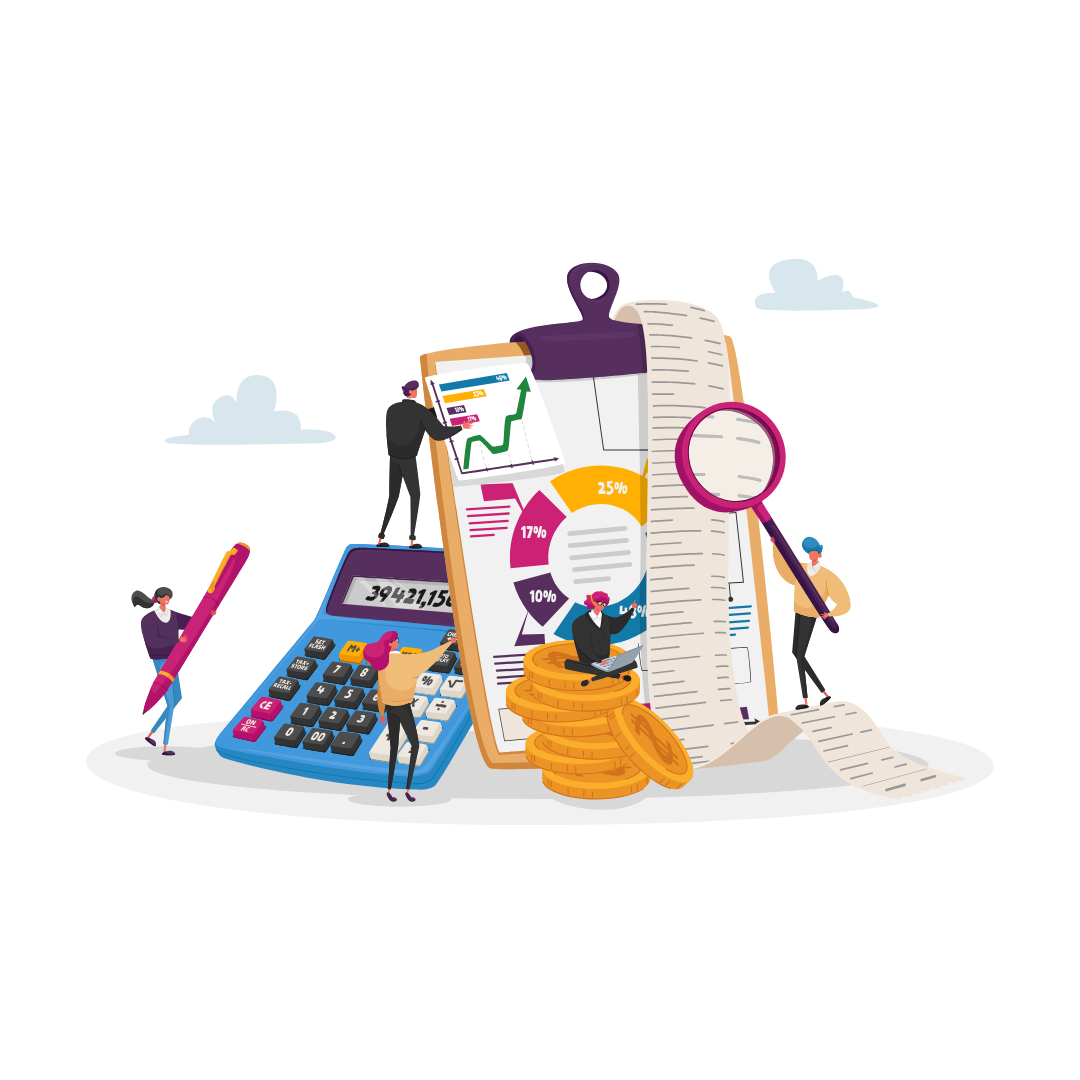
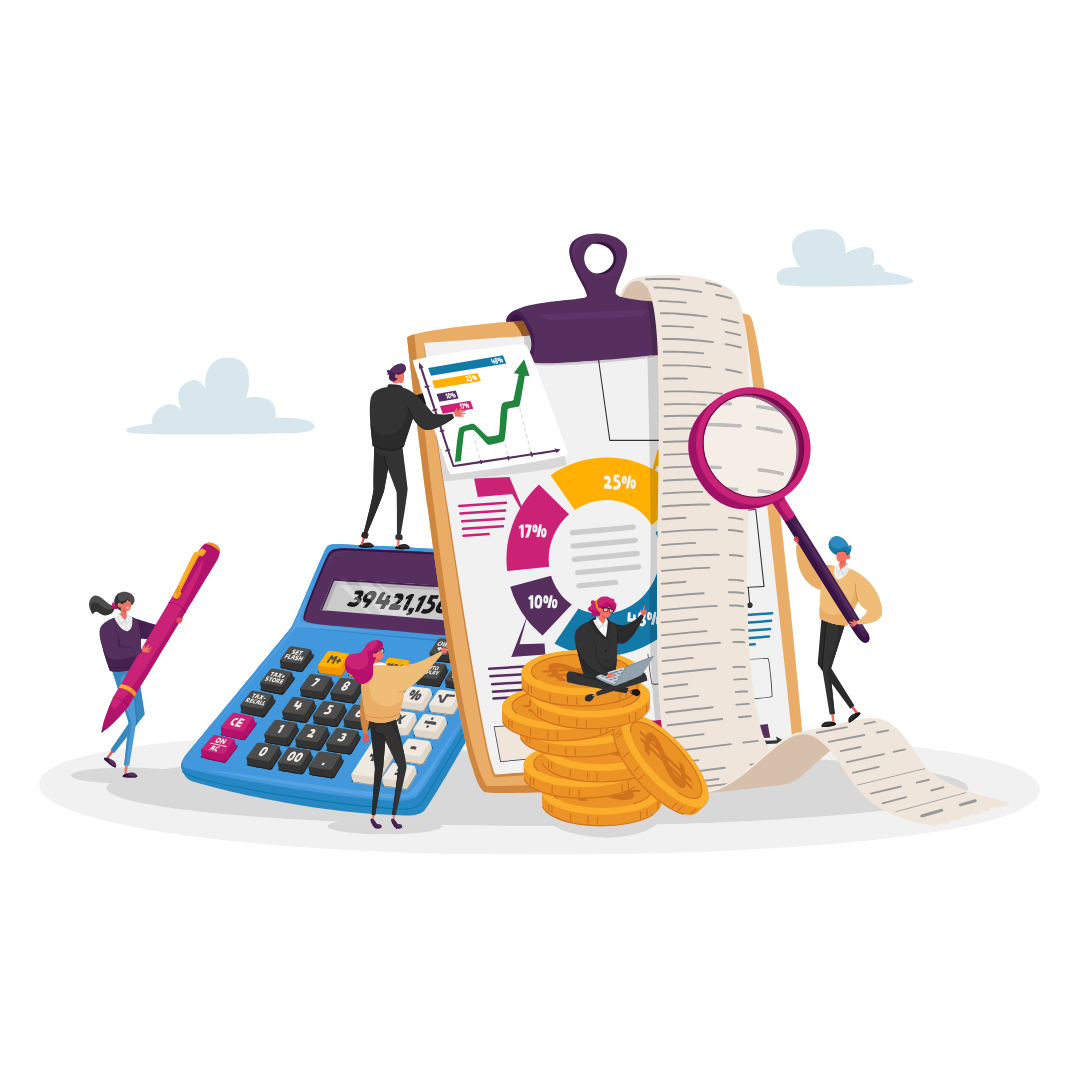
Merapikan landing page

Changed region(s): [[0.0611, 0.2139, 0.9472, 0.7944], [0.1222, 0.3361, 0.3056, 0.4278]]

diff --git a/assets/css/app.css b/assets/css/app.css
@@ -214,9 +214,10 @@ main .content .content-image {
 }
 
 main .content .content-image img {
-    width: 500px;
+    width: 680px;
     min-width: 150px;
     margin: auto;
+    margin-right: -150px;
     opacity: 0;
     animation: fadeIn 2s forwards;
 }
@@ -240,7 +241,7 @@ main .content2 .content-description .title {
   
 main .content2 .content-description p {
     padding-bottom: 20px;
-    width: 960px;
+    width: 1020px;
     margin: auto;
     font-size: 1.2rem;
     line-height: 1.7rem;
@@ -661,8 +662,13 @@ footer .content-wrapper .sosial-media small{
     }
 
     main .content .content-image {
-        width: 100%;
+        width: auto;
         order: -1;
+    }
+    
+    main .content .content-image img{
+        width: 400px;
+        margin-right: 0;
     }
 
     /* content 2 */
@@ -671,7 +677,7 @@ footer .content-wrapper .sosial-media small{
     }
 
     main .content2 .content-description p {
-        width: auto;
+        width: 100%;
         font-size: 1rem;
     }
 

diff --git a/index.php b/index.php
@@ -123,24 +123,38 @@
             <img src="assets/img/whatsapp-logo.png" alt="whatsapp" class="whatsapp-icon">
             <div class="whatsapp-dropdown">
               <a href="https://wa.me/628123456789" class="whatsapp-contact" target="_blank">
-                <img src="assets/img/avatar1.jpg" alt="Customer Service 1">
+                <img src="assets/img/admin-icon.png" alt="Admin Depok">
                 <div class="contact-info">
-                  <span class="contact-name">Lisa Amanda</span>
-                  <span class="contact-title">Customer Service</span>
+                  <span class="contact-name">Amanda</span>
+                  <span class="contact-title">Admin 1 Depok</span>
                 </div>
               </a>
               <a href="https://wa.me/628234567890" class="whatsapp-contact" target="_blank">
-                <img src="assets/img/avatar2.jpg" alt="Customer Service 2">
+                <img src="assets/img/admin-icon.png" alt="Admin Depok">
                 <div class="contact-info">
-                  <span class="contact-name">Budi Santoso</span>
-                  <span class="contact-title">Sales Support</span>
+                  <span class="contact-name">Princecylla</span>
+                  <span class="contact-title">Admin 2 Depok</span>
                 </div>
               </a>
               <a href="https://wa.me/628345678901" class="whatsapp-contact" target="_blank">
-                <img src="assets/img/avatar3.jpg" alt="Technical Support">
+                <img src="assets/img/admin-icon.png" alt="Admin Karawaci">
                 <div class="contact-info">
-                  <span class="contact-name">Ahmad Rizki</span>
-                  <span class="contact-title">Technical Support</span>
+                  <span class="contact-name">Selzha</span>
+                  <span class="contact-title">Admin Karawaci</span>
+                </div>
+              </a>
+              <a href="https://wa.me/628345678901" class="whatsapp-contact" target="_blank">
+                <img src="assets/img/admin-icon.png" alt="Admin Karawaci">
+                <div class="contact-info">
+                  <span class="contact-name">Firda</span>
+                  <span class="contact-title">Admin 1 Kalimalang</span>
+                </div>
+              </a>
+              <a href="https://wa.me/628345678901" class="whatsapp-contact" target="_blank">
+                <img src="assets/img/admin-icon.png" alt="Admin Karawaci">
+                <div class="contact-info">
+                  <span class="contact-name">Syifa</span>
+                  <span class="contact-title">Admin 2 Kalimalang</span>
                 </div>
               </a>
             </div>

diff --git a/modul.php b/modul.php
@@ -92,6 +92,48 @@
             </div>
         </main>
 
+        <!-- floating whatsapp button -->
+        <div class="whatsapp-button">
+            <img src="assets/img/whatsapp-logo.png" alt="whatsapp" class="whatsapp-icon">
+            <div class="whatsapp-dropdown">
+              <a href="https://wa.me/628123456789" class="whatsapp-contact" target="_blank">
+                <img src="assets/img/admin-icon.png" alt="Admin Depok">
+                <div class="contact-info">
+                  <span class="contact-name">Amanda</span>
+                  <span class="contact-title">Admin 1 Depok</span>
+                </div>
+              </a>
+              <a href="https://wa.me/628234567890" class="whatsapp-contact" target="_blank">
+                <img src="assets/img/admin-icon.png" alt="Admin Depok">
+                <div class="contact-info">
+                  <span class="contact-name">Princecylla</span>
+                  <span class="contact-title">Admin 2 Depok</span>
+                </div>
+              </a>
+              <a href="https://wa.me/628345678901" class="whatsapp-contact" target="_blank">
+                <img src="assets/img/admin-icon.png" alt="Admin Karawaci">
+                <div class="contact-info">
+                  <span class="contact-name">Selzha</span>
+                  <span class="contact-title">Admin Karawaci</span>
+                </div>
+              </a>
+              <a href="https://wa.me/628345678901" class="whatsapp-contact" target="_blank">
+                <img src="assets/img/admin-icon.png" alt="Admin Karawaci">
+                <div class="contact-info">
+                  <span class="contact-name">Firda</span>
+                  <span class="contact-title">Admin 1 Kalimalang</span>
+                </div>
+              </a>
+              <a href="https://wa.me/628345678901" class="whatsapp-contact" target="_blank">
+                <img src="assets/img/admin-icon.png" alt="Admin Karawaci">
+                <div class="contact-info">
+                  <span class="contact-name">Syifa</span>
+                  <span class="contact-title">Admin 2 Kalimalang</span>
+                </div>
+              </a>
+            </div>
+          </div>
+
         <footer>
             <div class="content-wrapper" id="about">  
                 <img src="assets/img/logo2.png" alt="logo lab">

diff --git a/software.php b/software.php
@@ -64,6 +64,48 @@
             </div>
           </main>
 
+          <!-- floating whatsapp button -->
+          <div class="whatsapp-button">
+            <img src="assets/img/whatsapp-logo.png" alt="whatsapp" class="whatsapp-icon">
+            <div class="whatsapp-dropdown">
+              <a href="https://wa.me/628123456789" class="whatsapp-contact" target="_blank">
+                <img src="assets/img/admin-icon.png" alt="Admin Depok">
+                <div class="contact-info">
+                  <span class="contact-name">Amanda</span>
+                  <span class="contact-title">Admin 1 Depok</span>
+                </div>
+              </a>
+              <a href="https://wa.me/628234567890" class="whatsapp-contact" target="_blank">
+                <img src="assets/img/admin-icon.png" alt="Admin Depok">
+                <div class="contact-info">
+                  <span class="contact-name">Princecylla</span>
+                  <span class="contact-title">Admin 2 Depok</span>
+                </div>
+              </a>
+              <a href="https://wa.me/628345678901" class="whatsapp-contact" target="_blank">
+                <img src="assets/img/admin-icon.png" alt="Admin Karawaci">
+                <div class="contact-info">
+                  <span class="contact-name">Selzha</span>
+                  <span class="contact-title">Admin Karawaci</span>
+                </div>
+              </a>
+              <a href="https://wa.me/628345678901" class="whatsapp-contact" target="_blank">
+                <img src="assets/img/admin-icon.png" alt="Admin Karawaci">
+                <div class="contact-info">
+                  <span class="contact-name">Firda</span>
+                  <span class="contact-title">Admin 1 Kalimalang</span>
+                </div>
+              </a>
+              <a href="https://wa.me/628345678901" class="whatsapp-contact" target="_blank">
+                <img src="assets/img/admin-icon.png" alt="Admin Karawaci">
+                <div class="contact-info">
+                  <span class="contact-name">Syifa</span>
+                  <span class="contact-title">Admin 2 Kalimalang</span>
+                </div>
+              </a>
+            </div>
+          </div>
+
           <!-- footer -->
           <footer>
              <div class="content-wrapper" id="about">  

diff --git a/tatatertib.php b/tatatertib.php
@@ -153,6 +153,48 @@
             </div>
         </main>
 
+        <!-- floating whatsapp button -->
+        <div class="whatsapp-button">
+            <img src="assets/img/whatsapp-logo.png" alt="whatsapp" class="whatsapp-icon">
+            <div class="whatsapp-dropdown">
+              <a href="https://wa.me/628123456789" class="whatsapp-contact" target="_blank">
+                <img src="assets/img/admin-icon.png" alt="Admin Depok">
+                <div class="contact-info">
+                  <span class="contact-name">Amanda</span>
+                  <span class="contact-title">Admin 1 Depok</span>
+                </div>
+              </a>
+              <a href="https://wa.me/628234567890" class="whatsapp-contact" target="_blank">
+                <img src="assets/img/admin-icon.png" alt="Admin Depok">
+                <div class="contact-info">
+                  <span class="contact-name">Princecylla</span>
+                  <span class="contact-title">Admin 2 Depok</span>
+                </div>
+              </a>
+              <a href="https://wa.me/628345678901" class="whatsapp-contact" target="_blank">
+                <img src="assets/img/admin-icon.png" alt="Admin Karawaci">
+                <div class="contact-info">
+                  <span class="contact-name">Selzha</span>
+                  <span class="contact-title">Admin Karawaci</span>
+                </div>
+              </a>
+              <a href="https://wa.me/628345678901" class="whatsapp-contact" target="_blank">
+                <img src="assets/img/admin-icon.png" alt="Admin Karawaci">
+                <div class="contact-info">
+                  <span class="contact-name">Firda</span>
+                  <span class="contact-title">Admin 1 Kalimalang</span>
+                </div>
+              </a>
+              <a href="https://wa.me/628345678901" class="whatsapp-contact" target="_blank">
+                <img src="assets/img/admin-icon.png" alt="Admin Karawaci">
+                <div class="contact-info">
+                  <span class="contact-name">Syifa</span>
+                  <span class="contact-title">Admin 2 Kalimalang</span>
+                </div>
+              </a>
+            </div>
+          </div>
+
           <!-- footer -->
           <footer>
              <div class="content-wrapper" id="about">  
